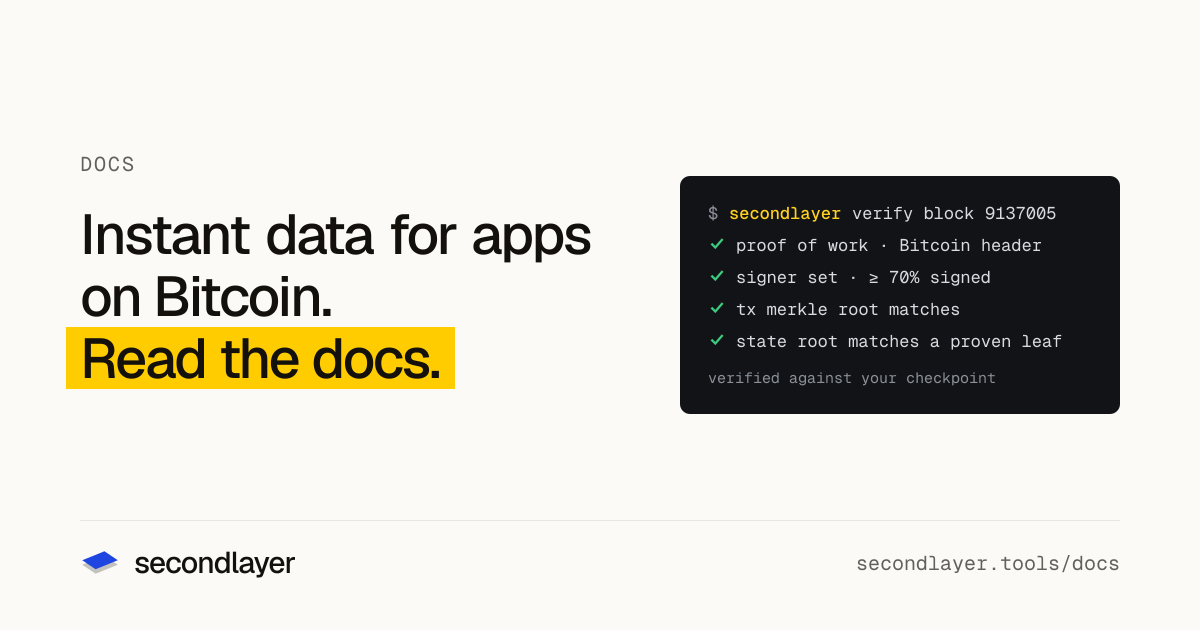
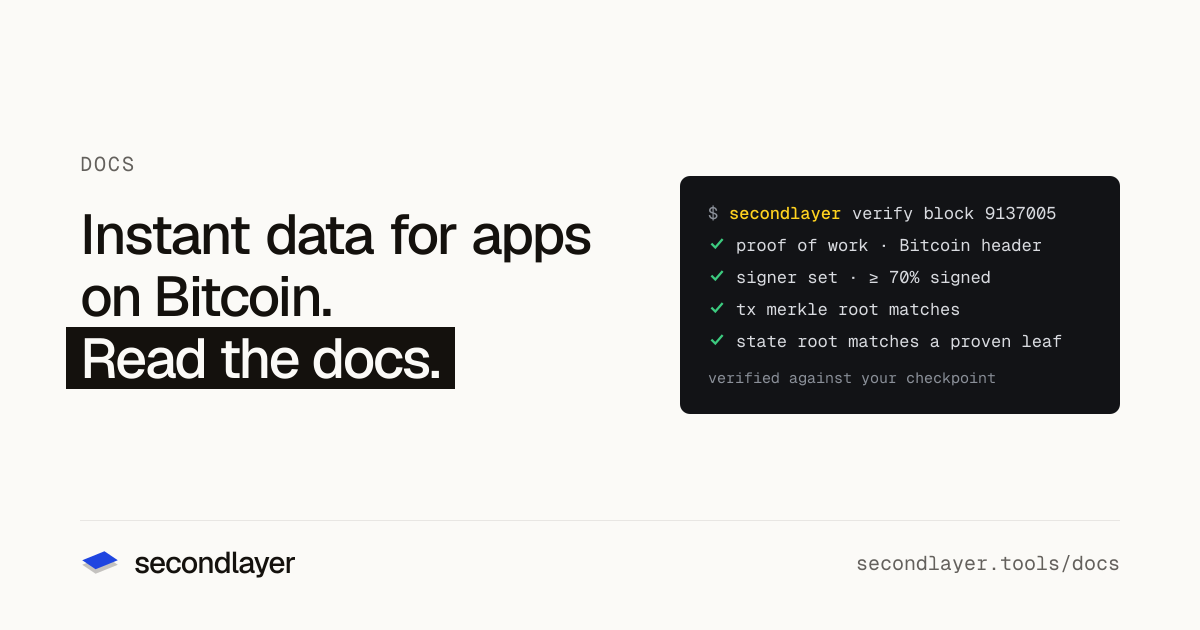
feat(web): invert headline highlights, drop "Proof included" tagline

Changed region(s): [[0.0308, 0.5127, 0.4008, 0.6333]]

diff --git a/apps/web/scripts/generate-og.tsx b/apps/web/scripts/generate-og.tsx
@@ -4,7 +4,7 @@
  * Run from apps/web:  bun run og
  *
  * Each card is a 1200×630 frame in the Primaries brand: a mono eyebrow, a
- * two-beat Geist headline whose second beat sits on the yellow highlight, flat
+ * two-beat Geist headline whose second beat sits on the inverted ink highlight, flat
  * product art on the right, and a footer strip with the logo and the page
  * path. Data-driven, so a copy change is one CARDS edit + a re-run.
  */
@@ -1119,7 +1119,8 @@ type CardSpec = {
 	/** Footer path, e.g. secondlayer.tools/streams */
 	path: string;
 	artifact: React.ReactNode;
-	/** Highlight color behind line 2 (yellow; Robin Neon on the partner card). */
+	/** Highlight color behind line 2. Default is the inverted ink block the
+	    site headlines use; a partner card may pass its own color. */
 	highlight?: string;
 	/** A status seal (the pages' yellow "live" chip) closing the headline. It
 	    carries the yellow, so line 2 goes unmarked. */
@@ -1166,12 +1167,19 @@ function Footer({ path }: { path: string }) {
 	);
 }
 
+/** Line 2's mark: inverted ink unless the card names its own color. */
+function highlightStyle(spec: CardSpec) {
+	return spec.highlight
+		? { background: spec.highlight, color: INK }
+		: { background: INK, color: PAPER };
+}
+
 function WideFrame(spec: CardSpec) {
 	const { size } = spec;
 	const [plain, marked] = spec.line2.includes("|")
 		? spec.line2.split("|")
 		: ["", spec.line2];
-	const hl = spec.highlight ?? YELLOW;
+	const hl = highlightStyle(spec);
 	const line = {
 		fontFamily: "Geist",
 		fontWeight: 500,
@@ -1219,7 +1227,7 @@ function WideFrame(spec: CardSpec) {
 						<span
 							style={{
 								...line,
-								background: hl,
+								...hl,
 								padding: "0 16px",
 								marginLeft: plain ? 0 : -16,
 							}}
@@ -1238,7 +1246,7 @@ function WideFrame(spec: CardSpec) {
 function Frame(spec: CardSpec) {
 	if (spec.wide) return <WideFrame {...spec} />;
 	const { size } = spec;
-	const hl = spec.highlight ?? YELLOW;
+	const hl = highlightStyle(spec);
 	return (
 		<div
 			style={{
@@ -1311,7 +1319,7 @@ function Frame(spec: CardSpec) {
 									alignSelf: "flex-start",
 									...(spec.seal
 										? {}
-										: { background: hl, padding: "0 14px", marginLeft: -14 }),
+										: { ...hl, padding: "0 14px", marginLeft: -14 }),
 								}}
 							>
 								{beat}
@@ -1322,7 +1330,7 @@ function Frame(spec: CardSpec) {
 									color={INK}
 									style={{
 										letterSpacing: 1.5,
-										background: hl,
+										background: spec.highlight ?? YELLOW,
 										borderRadius: 999,
 										padding: "7px 16px",
 									}}
@@ -1346,8 +1354,8 @@ const CARDS: CardSpec[] = [
 	{
 		file: "home.png",
 		eyebrow: null,
-		line1: "Instant data for apps on",
-		line2: "Bitcoin.|Proof included.",
+		line1: "Instant data for",
+		line2: "apps on Bitcoin.",
 		size: 88,
 		path: SITE,
 		wide: true,

diff --git a/apps/web/src/app/layout.tsx b/apps/web/src/app/layout.tsx
@@ -34,7 +34,7 @@ export const metadata: Metadata = {
 		default: "secondlayer · Stacks indexer: decoded data, webhooks, proofs",
 		template: "%s · secondlayer",
 	},
-	description: "Instant data for apps on Bitcoin. Proof included.",
+	description: "Instant data for apps on Bitcoin.",
 	appleWebApp: {
 		capable: true,
 		title: "secondlayer",
@@ -42,7 +42,7 @@ export const metadata: Metadata = {
 	},
 	openGraph: {
 		title: "secondlayer",
-		description: "Instant data for apps on Bitcoin. Proof included.",
+		description: "Instant data for apps on Bitcoin.",
 		siteName: "secondlayer",
 		type: "website",
 		images: [
@@ -57,7 +57,7 @@ export const metadata: Metadata = {
 	twitter: {
 		card: "summary_large_image",
 		title: "secondlayer",
-		description: "Instant data for apps on Bitcoin. Proof included.",
+		description: "Instant data for apps on Bitcoin.",
 		images: [ogImage("/og/home.png")],
 	},
 };

diff --git a/apps/web/src/app/(www)/site.css b/apps/web/src/app/(www)/site.css
@@ -134,10 +134,12 @@
 	background: var(--hi);
 	vertical-align: 0.05em;
 }
+/* Headline highlight: an inverted ink block. Yellow stays for code marks and
+   new/finalized/signed chips. */
 .site .hl {
-	color: var(--on-hi);
+	color: var(--paper);
 	padding: 0 0.1em;
-	background: linear-gradient(var(--hi), var(--hi)) 0 0.14em / 100% 1.08em
+	background: linear-gradient(var(--ink), var(--ink)) 0 0.14em / 100% 1.08em
 		no-repeat;
 	-webkit-box-decoration-break: clone;
 	box-decoration-break: clone;

diff --git a/apps/web/src/app/lab/stories.tsx b/apps/web/src/app/lab/stories.tsx
@@ -703,7 +703,15 @@ const META: Record<StoryId, Meta> = {
 								</span>
 							</p>
 							<p>
-								<span className="hl">Yellow marks</span>
+								<span
+									style={{
+										background: "var(--hi)",
+										color: "var(--on-hi)",
+										padding: "0 0.1em",
+									}}
+								>
+									Yellow marks
+								</span>
 								<span className="lab-note"> new, finalized, signed</span>
 							</p>
 							<p>

diff --git a/apps/web/src/components/site-footer.tsx b/apps/web/src/components/site-footer.tsx
@@ -62,8 +62,7 @@ export function SiteFooter() {
 							<span>secondlayer</span>
 						</IntentLink>
 						<p className="site-footer-tag">
-							Instant data for apps on Bitcoin. Proof included. Inspired by the
-							ideas behind{" "}
+							Instant data for apps on Bitcoin. Inspired by the ideas behind{" "}
 							<a
 								href="https://paragraph.com/@aulneau/project-kourier"
 								target="_blank"

diff --git a/apps/web/src/app/(www)/page.tsx b/apps/web/src/app/(www)/page.tsx
@@ -132,8 +132,8 @@ export function HomeView() {
 				<div className="shell">
 					<div className="hero-copy">
 						<h1>
-							Instant data for apps on
-							<br /> Bitcoin. <Highlight>Proof included.</Highlight>
+							Instant data for
+							<br /> <Highlight>apps on Bitcoin.</Highlight>
 						</h1>
 						<div className="hero-row">
 							<p className="sub">

diff --git a/apps/web/src/components/site/highlight.tsx b/apps/web/src/components/site/highlight.tsx
@@ -1,6 +1,6 @@
 import type { ReactNode } from "react";
 
-/** Yellow highlighter behind a phrase. Highlight/new/signed only. */
+/** Inverted ink block behind a headline phrase: the one beat the line is about. */
 export function Highlight({ children }: { children: ReactNode }) {
 	return <span className="hl">{children}</span>;
 }

diff --git a/DESIGN.md b/DESIGN.md
@@ -361,6 +361,7 @@ black so long copy reads comfortably for `sub`.
 exception, carried by the brand mark: a product glyph may draw one part in blue, the
 part its claim is about, the way the logo's top layer is blue (see Product glyphs).
 **Yellow marks.** Yellow never signals status. It marks new, finalized, signed.
+**Headlines invert.** A headline's highlighted beat (`<Highlight>` / `.hl`, OG card line 2) is an inverted ink block: `ink` fill, `paper` text, in both themes. Never yellow.
 **Red fails.** Red appears only for failures and reorgs.
 Dashboard: attention/failing color the insight's Why link and the row's chart; values get the `.hl` / inverted mark; rows stay plain. Healthy shows nothing.
 **Neutrals carry the rest.** If it is not an action, a mark, or a failure, it is ink, sub,
